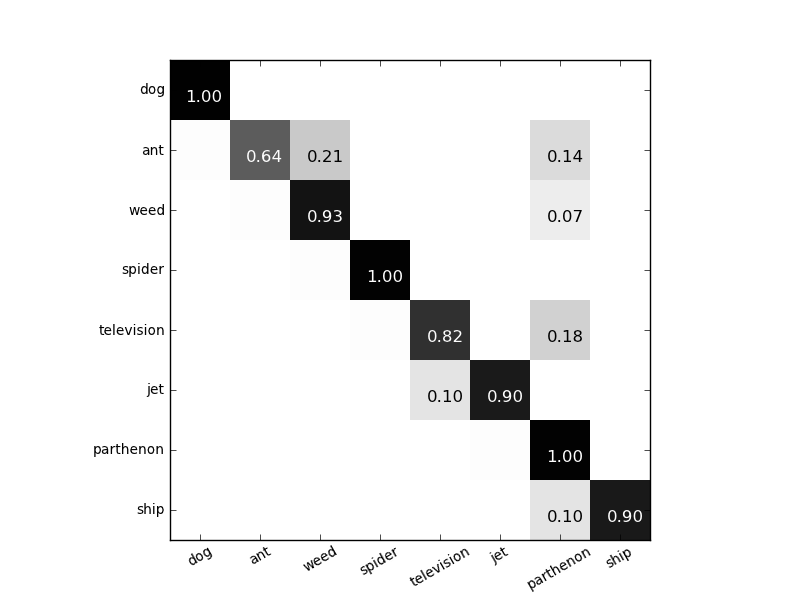
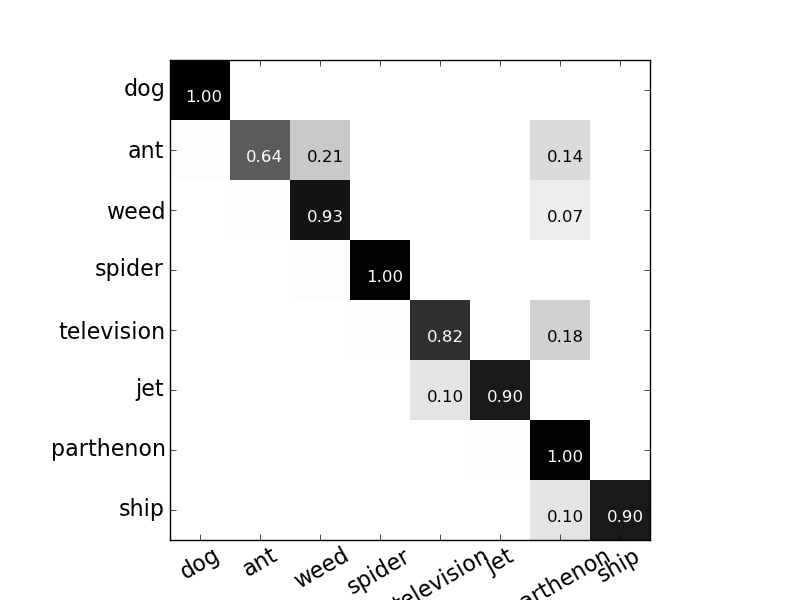
cosmetic changes to plots (lines thicker, fonts bigger)

diff --git a/plotting/main.py b/plotting/main.py
@@ -38,10 +38,10 @@ class EvalSet:
     for i,e in enumerate(evals):
       label = "%s: %.3f"%(e.nice_name,e.ap)
       lstyle = linestyles[mod(i,len(linestyles))]
-      plot(e.recall,e.precision,lstyle,label=label)
+      plot(e.recall,e.precision,lstyle,label=label,linewidth=3)
     legend(loc='lower left')
-    xlabel('Recall')
-    ylabel('Precision')
+    xlabel('Recall',size=16)
+    ylabel('Precision',size=16)
     grid(True)
 
     self.savefig_wrap(features,'pr')
@@ -76,10 +76,10 @@ class EvalSet:
           text(j+width/2.-.1, count*1.-.04, "%.2f"%count, color='white')
       bar(ind+i*width,cumsum(counts_r),color=color,width=width,label=label)
     ranks = [r'$\leq %s$'%x for x in [1,2,3,4]]
-    xticks(ind+0.5, ranks) 
-    yticks(linspace(0,1,5))
-    xlabel('Correct result fetched within K hits ')
-    ylabel('Proportion of trials')
+    xticks(ind+0.5, ranks,size=16)
+    yticks(linspace(0,1,5),size=16)
+    xlabel('Correct result fetched within K hits ',size=16)
+    ylabel('Proportion of trials',size=16)
     legend(loc='upper left')
     self.savefig_wrap(features,'rankhist')
     rc('text', usetex=False)
@@ -112,8 +112,8 @@ class EvalSet:
           else:
             text(j-.2, i+.2, "%.2f"%c, color='white', fontsize=12)
     #cb = fig.colorbar(res)
-    xticks(arange(0, self.num_models), self.model_names, rotation=30, size='small')
-    yticks(arange(0, self.num_models), self.model_names, size='small')
+    xticks(arange(0, self.num_models), self.model_names, rotation=30, size=16)
+    yticks(arange(0, self.num_models), self.model_names, size=16)
 
     self.savefig_wrap([feature],'confmat')
 
@@ -211,7 +211,9 @@ def main():
   Goes through different features, outputting their evaluations, as well as
   a combined PR curve evaluation.
   """
-  do_plot = False
+  do_plot = True 
+  #do_plot = False 
+
   eval_set = EvalSet()
   eval_set.features = ['PFH','FPFH','SHOT','SPIN_IMAGE']
 
